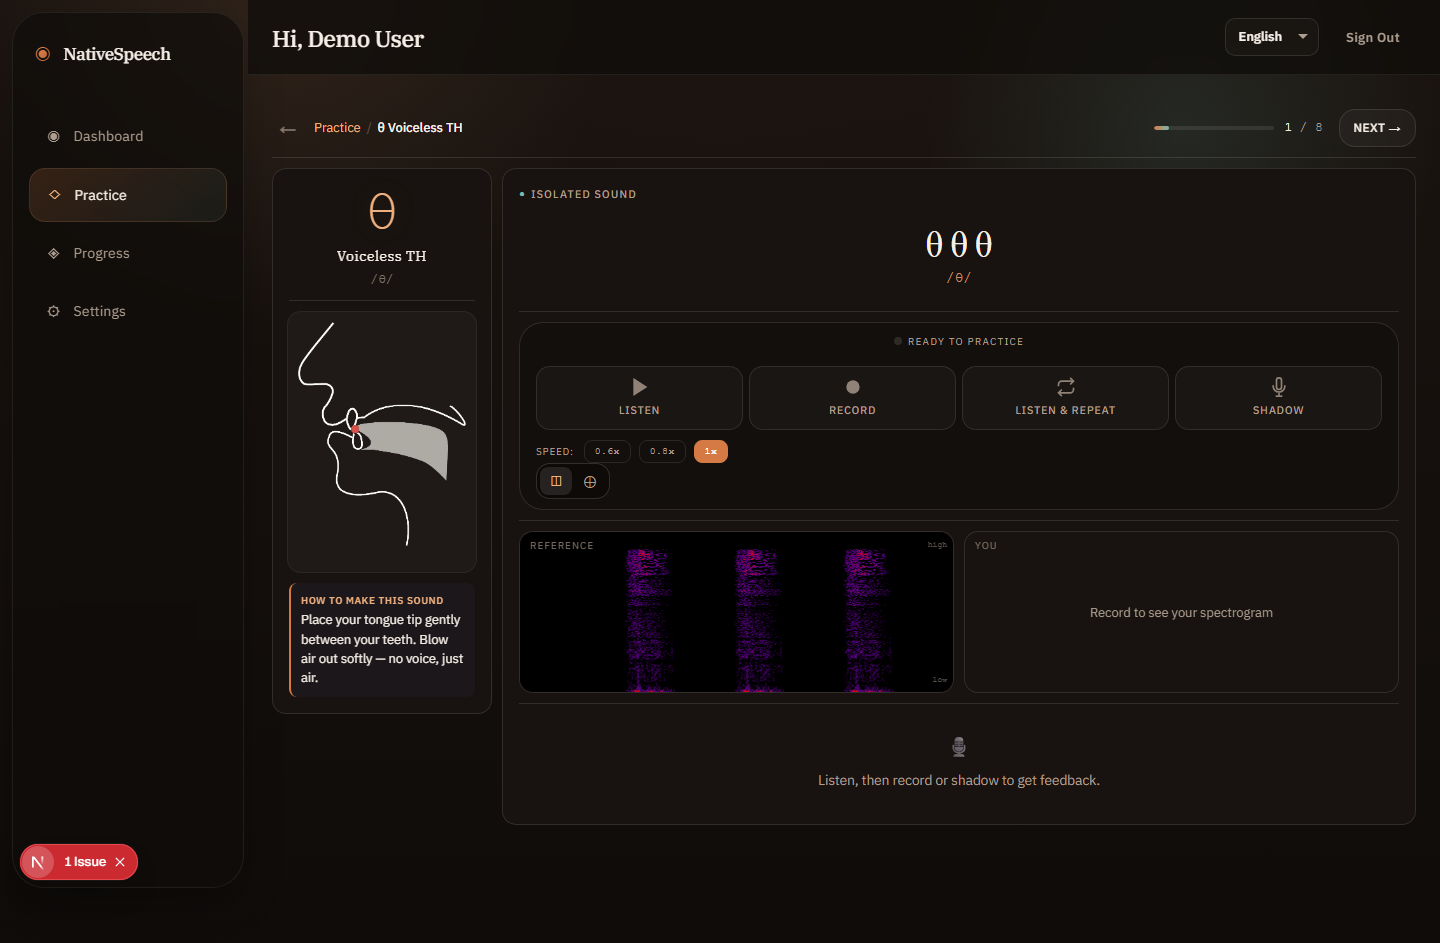
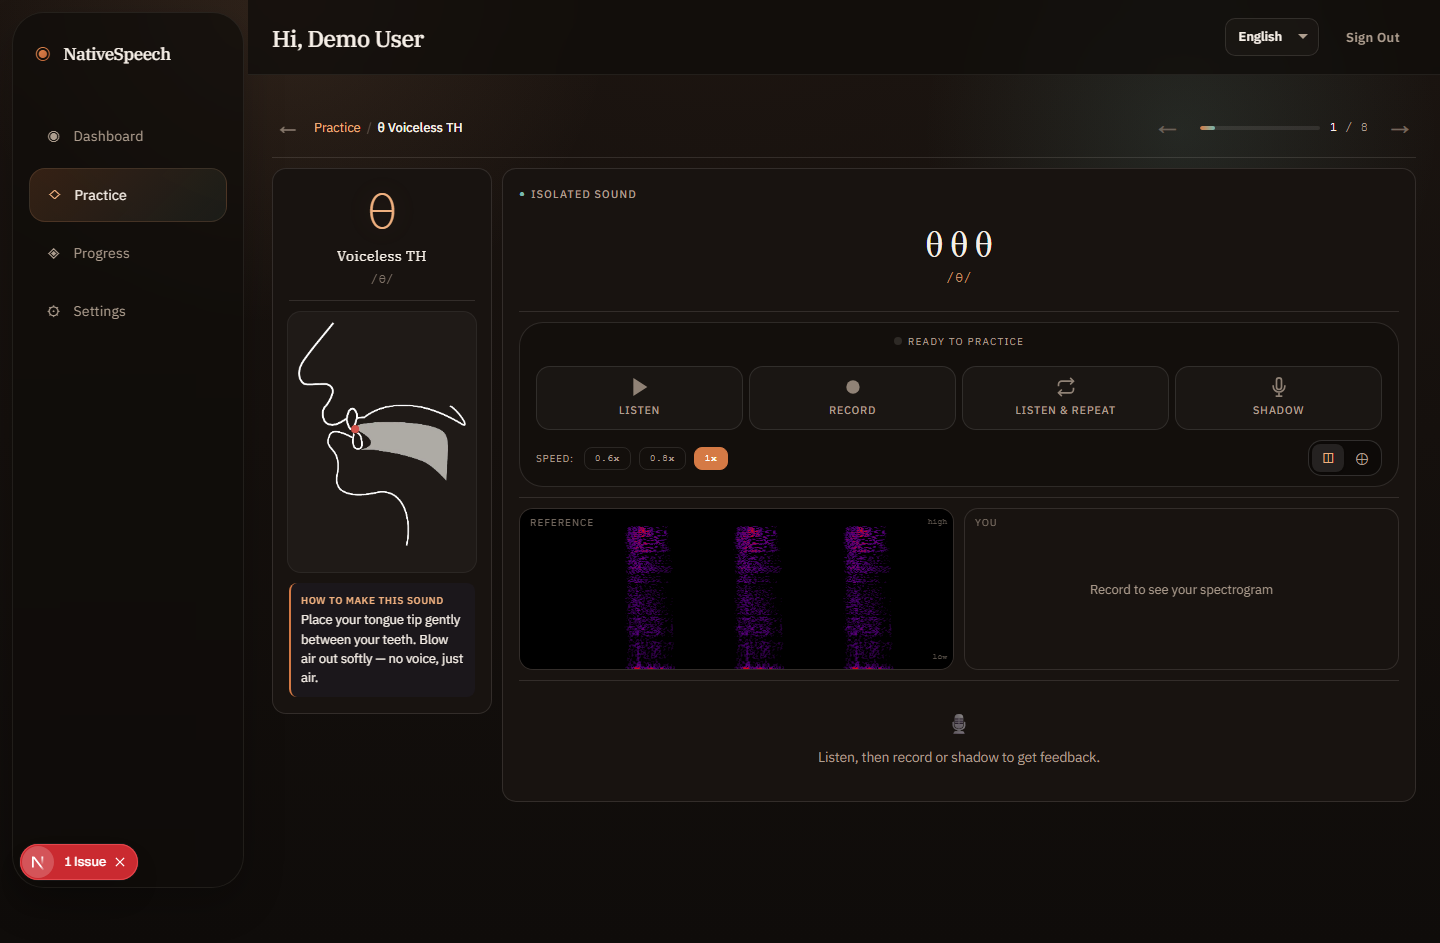
fix: header arrows around progress, toggle aligned right
- Move step navigation arrows to surround progress bar (← progress →)
- Remove Next button, use arrow navigation instead
- Fix toggle to be on right side of speed control with space-between
- Add optionsBar CSS with justify-content: space-between

diff --git a/src/components/practice/PhonemeDrillSession.tsx b/src/components/practice/PhonemeDrillSession.tsx
@@ -226,8 +226,18 @@ export function PhonemeDrillSession({ drill }: PhonemeDrillSessionProps) {
           </nav>
         </div>
 
-        {/* Right: Progress + Next */}
+        {/* Right: Step Nav + Progress */}
         <div className={styles.topBarRight}>
+          <Button
+            variant="ghost"
+            size="sm"
+            onClick={() => goToStep(currentStep - 1)}
+            disabled={currentStep === 0 || analyzing}
+            className={styles.stepArrowBtn}
+          >
+            ←
+          </Button>
+          
           <div className={styles.progress}>
             <div className={styles.progressTrack}>
               <div 
@@ -239,14 +249,15 @@ export function PhonemeDrillSession({ drill }: PhonemeDrillSessionProps) {
               {currentStep + 1} <span className={styles.progressTotal}>/ {drill.steps.length}</span>
             </span>
           </div>
+          
           <Button
-            variant="secondary"
+            variant="ghost"
             size="sm"
             onClick={() => goToStep(currentStep + 1)}
             disabled={currentStep === drill.steps.length - 1 || analyzing}
-            className={styles.nextBtn}
+            className={styles.stepArrowBtn}
           >
-            Next →
+            →
           </Button>
         </div>
       </header>

diff --git a/src/components/practice/PhonemeDrillSession.module.css b/src/components/practice/PhonemeDrillSession.module.css
@@ -55,12 +55,22 @@
   opacity: 1;
 }
 
-.nextBtn {
-  padding: 6px 14px;
-  font-size: 0.75rem;
-  font-weight: 500;
-  text-transform: uppercase;
-  letter-spacing: 0.03em;
+.stepArrowBtn {
+  width: 32px;
+  height: 32px;
+  padding: 0;
+  display: flex;
+  align-items: center;
+  justify-content: center;
+  font-size: 1.1rem;
+  border-radius: var(--radius-md);
+  opacity: 0.6;
+  transition: all 0.2s ease;
+}
+
+.stepArrowBtn:hover:not(:disabled) {
+  opacity: 1;
+  background: rgba(255, 255, 255, 0.05);
 }
 
 .breadcrumb {

diff --git a/src/components/practice/ShadowingPlayer.module.css b/src/components/practice/ShadowingPlayer.module.css
@@ -60,6 +60,13 @@
   color: var(--color-text-muted);
 }
 
+.optionsBar {
+  display: flex;
+  align-items: center;
+  justify-content: space-between;
+  gap: var(--space-md);
+}
+
 .speedSection {
   display: flex;
   align-items: center;
